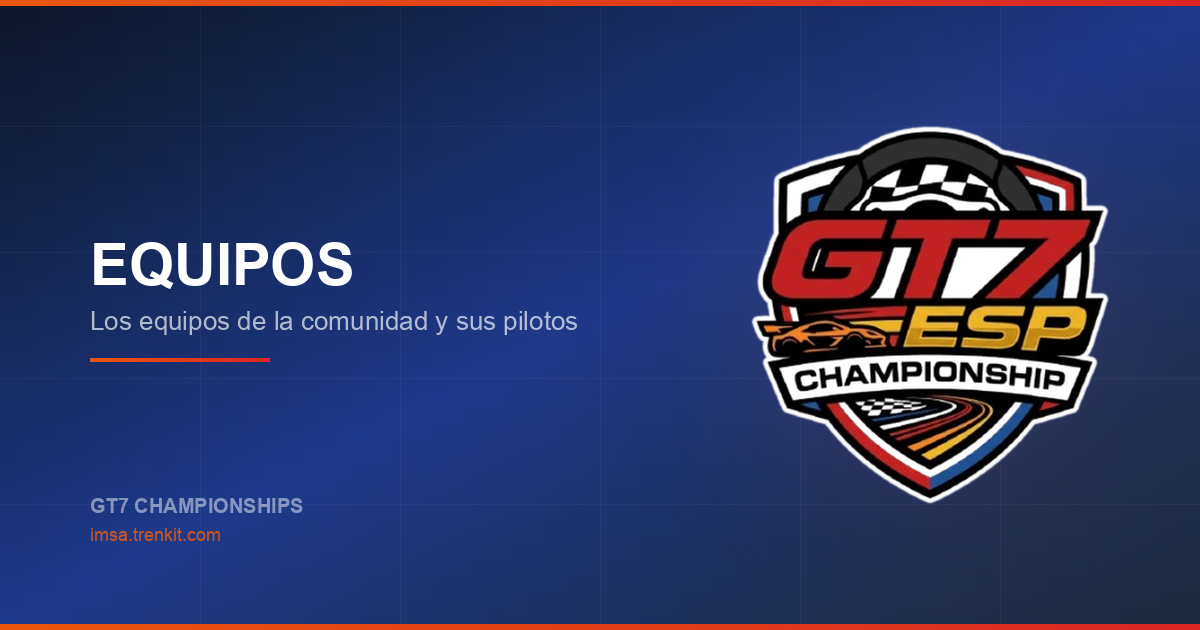
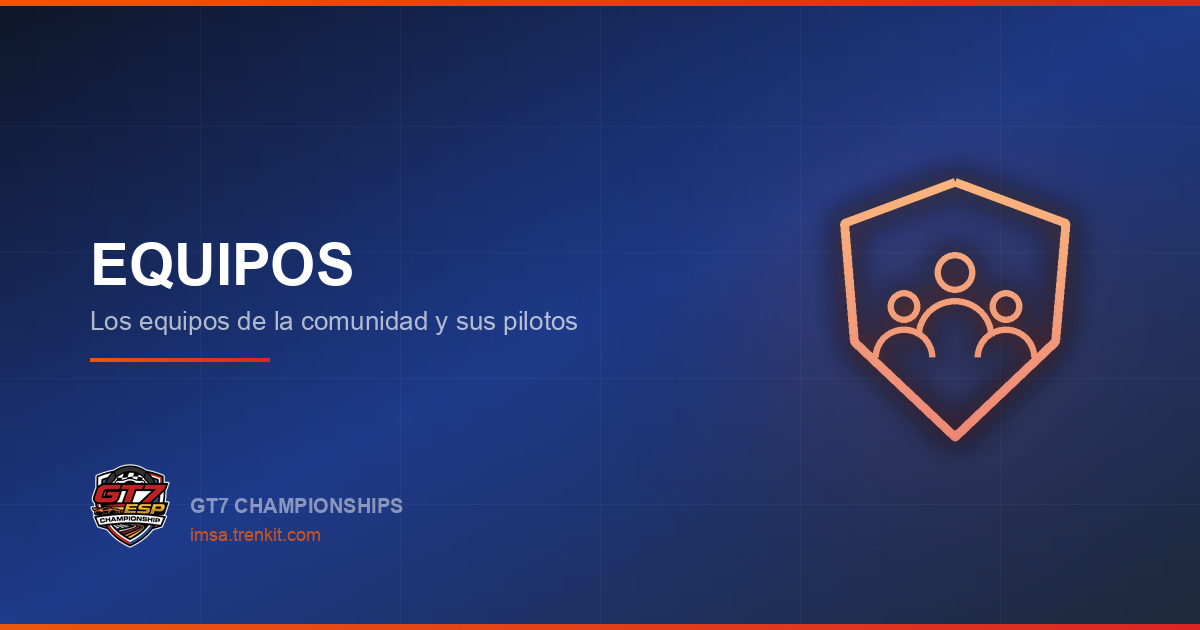
feat(og): vistas previas con un motivo propio por sección
Iconos de neón dibujados en generate-og-images.py: auriculares y micro con
insignia «EN DIRECTO» en la Zona Caster, trofeo, volante, reglamento, coche
con vinilo, escudo de equipo y calendario. El escudo pasa a pequeño junto a
la marca; la portada lo mantiene grande.

Changed region(s): [[0.6167, 0.181, 0.925, 0.8143], [0.0617, 0.7238, 0.3392, 0.8746]]

diff --git a/scripts/generate-og-images.py b/scripts/generate-og-images.py
@@ -41,36 +41,44 @@ SECTIONS = [
     },
     {
         'filename': 'og-championships.png',
+        'motivo': 'trofeo',
         'title': 'CAMPEONATOS',
         'subtitle': 'Clasificaciones, resultados y estadísticas',
     },
     {
         'filename': 'og-pilots.png',
+        'motivo': 'volante',
         'title': 'ÁREA DE PILOTOS',
         'subtitle': 'Perfiles, rendimiento e historial',
     },
     {
         'filename': 'og-reglamento.png',
+        'motivo': 'reglamento',
         'title': 'REGLAMENTO OFICIAL',
         'subtitle': 'Normativa, sanciones y procedimientos',
     },
     {
         'filename': 'og-tools.png',
+        'motivo': 'vinilo',
         'title': 'CREADOR DE VINILOS',
         'subtitle': 'Convierte imágenes a SVG para GT7',
     },
     {
         'filename': 'og-equipos.png',
+        'motivo': 'equipo',
         'title': 'EQUIPOS',
         'subtitle': 'Los equipos de la comunidad y sus pilotos',
     },
     {
         'filename': 'og-zona-caster.png',
+        'motivo': 'caster',
+        'insignia': 'EN DIRECTO',
         'title': 'ZONA CASTER',
         'subtitle': 'Los casters que retransmiten nuestras carreras',
     },
     {
         'filename': 'og-events.png',
+        'motivo': 'calendario',
         'title': 'EVENTOS',
         'subtitle': 'Calendario, carreras especiales e inscripciones',
     },
@@ -147,6 +155,158 @@ def cargar_fuentes():
     }
 
 
+# ── Motivos por sección ─────────────────────────────────────────────────────
+#
+# Cada sección lleva a la derecha un icono propio (auriculares y micro en la
+# Zona Caster, trofeo en Campeonatos…) en vez del escudo de siempre: en el
+# chat, todas las vistas previas eran iguales salvo el título. El escudo pasa
+# a pequeño junto a la marca.
+#
+# Estilo neón: trazos dibujados en blanco sobre una capa (a 2× para suavizar
+# los bordes), coloreados con el degradado naranja→rojo de la web y con un
+# resplandor desenfocado del mismo color. Cada función recibe un ImageDraw
+# sobre un lienzo de LADO×LADO (coordenadas de un icono de 400×400 ya
+# escaladas con `k`).
+
+LADO = 400
+ESCALA = 2
+
+
+def _pinceles(d, k):
+    """Atajos de dibujo en coordenadas de 400×400."""
+    w = lambda n: max(1, int(n * k))
+    P = lambda *xs: [x * k for x in xs]
+    return w, P
+
+
+def motivo_caster(d, k):
+    w, P = _pinceles(d, k)
+    # Micrófono de estudio: cápsula, rejilla, horquilla y pie
+    d.rounded_rectangle(P(160, 92, 240, 236), radius=40 * k, outline='white', width=w(11))
+    for y in (128, 150, 172, 194):
+        d.line(P(176, y, 224, y), fill='white', width=w(6))
+    d.arc(P(130, 150, 270, 280), start=0, end=180, fill='white', width=w(10))
+    d.line(P(200, 280, 200, 322), fill='white', width=w(10))
+    d.line(P(150, 326, 250, 326), fill='white', width=w(11))
+    # Auriculares por encima, rodeando el micro
+    d.arc(P(70, 34, 330, 300), start=195, end=345, fill='white', width=w(13))
+    d.rounded_rectangle(P(54, 150, 104, 252), radius=20 * k, outline='white', width=w(11))
+    d.rounded_rectangle(P(296, 150, 346, 252), radius=20 * k, outline='white', width=w(11))
+    # Ondas de sonido
+    for r, a in ((150, 5), (182, 4)):
+        d.arc(P(200 - r, 186 - r, 200 + r, 186 + r), start=-28, end=28, fill='white', width=w(a * 1.6))
+        d.arc(P(200 - r, 186 - r, 200 + r, 186 + r), start=152, end=208, fill='white', width=w(a * 1.6))
+
+
+def motivo_trofeo(d, k):
+    w, P = _pinceles(d, k)
+    d.polygon(P(120, 70, 280, 70, 268, 170, 240, 214, 160, 214, 132, 170), outline='white', width=w(11))
+    d.arc(P(70, 84, 150, 174), start=90, end=270, fill='white', width=w(10))
+    d.arc(P(250, 84, 330, 174), start=270, end=90, fill='white', width=w(10))
+    d.line(P(200, 214, 200, 268), fill='white', width=w(12))
+    d.rounded_rectangle(P(140, 268, 260, 300), radius=8 * k, outline='white', width=w(10))
+    d.rounded_rectangle(P(118, 300, 282, 334), radius=8 * k, outline='white', width=w(10))
+    # Estrella en la copa
+    import math
+    pts = []
+    for i in range(10):
+        r = 34 if i % 2 == 0 else 15
+        a = math.radians(-90 + i * 36)
+        pts += [200 + r * math.cos(a), 140 + r * math.sin(a)]
+    d.polygon(P(*pts), outline='white', width=w(7))
+
+
+def motivo_volante(d, k):
+    w, P = _pinceles(d, k)
+    d.ellipse(P(60, 60, 340, 340), outline='white', width=w(16))
+    d.ellipse(P(160, 160, 240, 240), outline='white', width=w(11))
+    d.line(P(76, 186, 164, 194), fill='white', width=w(14))
+    d.line(P(324, 186, 236, 194), fill='white', width=w(14))
+    d.line(P(200, 240, 200, 326), fill='white', width=w(14))
+    d.line(P(200, 62, 200, 92), fill='white', width=w(10))      # marca de centro
+
+
+def motivo_reglamento(d, k):
+    w, P = _pinceles(d, k)
+    d.rounded_rectangle(P(92, 50, 290, 330), radius=16 * k, outline='white', width=w(11))
+    for i, y in enumerate((112, 162, 212, 262)):
+        d.line(P(122, y - 4, 136, y + 8, 156, y - 12), fill='white', width=w(8), joint='curve')
+        d.line(P(176, y, 256, y), fill='white', width=w(8))
+    # Mazo
+    d.line(P(250, 300, 330, 220), fill='white', width=w(12))
+    d.polygon(P(300, 170, 350, 220, 330, 240, 280, 190), outline='white', width=w(10))
+
+
+def motivo_vinilo(d, k):
+    w, P = _pinceles(d, k)
+    # Coche de carreras de perfil, bajo y largo, con el vinilo: franja y dorsal
+    d.line(P(36, 252, 48, 214, 128, 204, 178, 198, 222, 160, 290, 158, 334, 198, 372, 210, 384, 240, 384, 252, 36, 252),
+           fill='white', width=w(10), joint='curve')
+    d.line(P(26, 192, 84, 192), fill='white', width=w(10))           # alerón
+    d.line(P(58, 192, 62, 212), fill='white', width=w(8))
+    for cx in (112, 312):
+        d.ellipse(P(cx - 32, 222, cx + 32, 286), outline='white', width=w(11))
+    d.line(P(150, 236, 270, 236), fill='white', width=w(7))
+    d.line(P(150, 216, 196, 216), fill='white', width=w(7))
+    d.ellipse(P(226, 186, 270, 230), outline='white', width=w(7))     # dorsal
+    d.line(P(244, 198, 250, 194, 250, 220), fill='white', width=w(5))
+
+
+def motivo_equipo(d, k):
+    w, P = _pinceles(d, k)
+    d.line(P(200, 44, 330, 92, 318, 232, 200, 344, 82, 232, 70, 92, 200, 44), fill='white', width=w(11), joint='curve')
+    for cx, cy, s in ((200, 150, 1.0), (140, 190, 0.8), (260, 190, 0.8)):
+        r = 24 * s
+        d.ellipse(P(cx - r, cy - r, cx + r, cy + r), outline='white', width=w(8))
+        d.arc(P(cx - 46 * s, cy + 30 * s, cx + 46 * s, cy + 120 * s), start=180, end=360, fill='white', width=w(8))
+
+
+def motivo_calendario(d, k):
+    w, P = _pinceles(d, k)
+    d.rounded_rectangle(P(70, 82, 330, 320), radius=20 * k, outline='white', width=w(11))
+    d.line(P(70, 140, 330, 140), fill='white', width=w(10))
+    for x in (140, 260):
+        d.line(P(x, 56, x, 104), fill='white', width=w(12))
+    # Bandera a cuadros dentro
+    for fila in range(4):
+        for col in range(6):
+            if (fila + col) % 2 == 0:
+                x0, y0 = 110 + col * 30, 170 + fila * 30
+                d.rectangle(P(x0, y0, x0 + 30, y0 + 30), fill='white')
+
+
+MOTIVOS = {
+    'caster': motivo_caster, 'trofeo': motivo_trofeo, 'volante': motivo_volante,
+    'reglamento': motivo_reglamento, 'vinilo': motivo_vinilo, 'equipo': motivo_equipo,
+    'calendario': motivo_calendario,
+}
+
+
+def icono_neon(nombre, lado):
+    """Icono del motivo en estilo neón, lado×lado, RGBA."""
+    grande = lado * ESCALA
+    trazo = Image.new('L', (grande, grande), 0)
+    MOTIVOS[nombre](ImageDraw.Draw(trazo), grande / LADO)
+    trazo = trazo.resize((lado, lado), Image.LANCZOS)
+
+    color = Image.new('RGBA', (lado, lado))
+    cd = ImageDraw.Draw(color)
+    for y in range(lado):   # degradado vertical naranja→rojo, como el CTA
+        cd.line([(0, y), (lado, y)], fill=(*lerp((251, 146, 60), RED_600, y / lado), 255))
+    neon = Image.new('RGBA', (lado, lado), (0, 0, 0, 0))
+    neon.paste(color, (0, 0), trazo)
+
+    resplandor = neon.filter(ImageFilter.GaussianBlur(14))
+    capa = Image.new('RGBA', (lado, lado), (0, 0, 0, 0))
+    capa = Image.alpha_composite(capa, resplandor)
+    capa = Image.alpha_composite(capa, resplandor)
+    capa = Image.alpha_composite(capa, neon)
+    # Núcleo más claro: el trazo fino en blanco cálido sobre el color
+    nucleo = Image.new('RGBA', (lado, lado), (255, 237, 213, 0))
+    nucleo.putalpha(trazo.point(lambda v: int(v * 0.45)))
+    return Image.alpha_composite(capa, nucleo)
+
+
 def generate_og_image(section, fuentes):
     img = gradiente_diagonal(WIDTH, HEIGHT).convert('RGBA')
 
@@ -178,13 +338,21 @@ def generate_og_image(section, fuentes):
     img.paste(barra_cta(WIDTH, 6), (0, 0))
     img.paste(barra_cta(WIDTH, 6), (0, HEIGHT - 6))
 
-    # ── Logo ──
+    # ── Logo o motivo ──
     # Conserva la proporción (el escudo es más alto que ancho; forzarlo a un
-    # cuadrado lo achataba) y va centrado sobre el halo.
+    # cuadrado lo achataba) y va centrado sobre el halo. Con motivo propio, el
+    # icono ocupa su sitio y el escudo va pequeño junto a la marca.
+    motivo = section.get('motivo')
     try:
         logo = Image.open(LOGO_PATH).convert('RGBA')
-        logo.thumbnail((380, 380), Image.LANCZOS)
-        img.alpha_composite(logo, (cx - logo.width // 2, cy - logo.height // 2))
+        if motivo:
+            icono = icono_neon(motivo, 340)
+            img.alpha_composite(icono, (cx + 25 - 170, cy - 170))
+            logo.thumbnail((84, 84), Image.LANCZOS)
+            img.alpha_composite(logo, (90, 548 - logo.height))
+        else:
+            logo.thumbnail((380, 380), Image.LANCZOS)
+            img.alpha_composite(logo, (cx - logo.width // 2, cy - logo.height // 2))
     except Exception as e:
         print(f"  [aviso] No se pudo insertar el logo: {e}")
 
@@ -197,13 +365,27 @@ def generate_og_image(section, fuentes):
 
     img = Image.alpha_composite(img, capa)
 
+    # Insignia opcional sobre el icono («● EN DIRECTO» en la Zona Caster)
+    if section.get('insignia'):
+        ins = Image.new('RGBA', (WIDTH, HEIGHT), (0, 0, 0, 0))
+        di = ImageDraw.Draw(ins)
+        texto = section['insignia']
+        ancho = int(di.textlength(texto, font=fuentes['marca'])) + 58
+        x0, y0 = cx + 25 - ancho // 2, 96
+        di.rounded_rectangle([x0, y0, x0 + ancho, y0 + 40], radius=20, fill=(*RED_600, 235))
+        di.ellipse([x0 + 16, y0 + 13, x0 + 30, y0 + 27], fill=(255, 255, 255, 255))
+        di.text((x0 + 40, y0 + 9), texto, fill=(255, 255, 255, 255), font=fuentes['marca'])
+        brillo = ins.filter(ImageFilter.GaussianBlur(12))
+        img = Image.alpha_composite(Image.alpha_composite(img, brillo), ins)
+
     # Divisoria con el gradiente del CTA, como el subrayado de la web.
     img.paste(barra_cta(180, 4), (90, 358))
 
     pie = Image.new('RGBA', (WIDTH, HEIGHT), (0, 0, 0, 0))
     p = ImageDraw.Draw(pie)
-    p.text((90, 494), "GT7 CHAMPIONSHIPS", fill=(255, 255, 255, 120), font=fuentes['marca'])
-    p.text((90, 524), "imsa.trenkit.com", fill=(*ORANGE_600, 220), font=fuentes['url'])
+    x_marca = 190 if motivo else 90
+    p.text((x_marca, 494), "GT7 CHAMPIONSHIPS", fill=(255, 255, 255, 120), font=fuentes['marca'])
+    p.text((x_marca, 524), "imsa.trenkit.com", fill=(*ORANGE_600, 220), font=fuentes['url'])
     img = Image.alpha_composite(img, pie)
 
     dest = os.path.join(PUBLIC_DIR, section['filename'])
